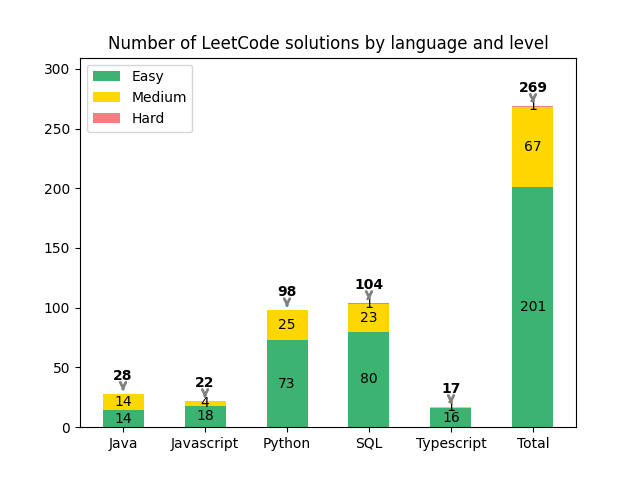
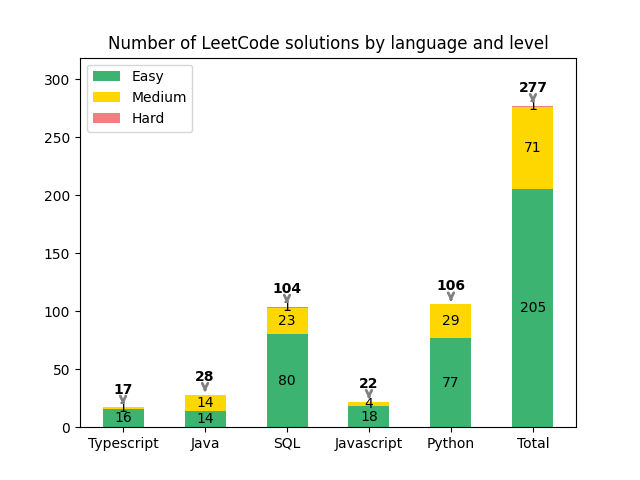
[auto] Update README and move solution files (R.N: 68)
Push commit: 4b45bf251ab9b2204a08df5d678323acbb3b22d8

Files moved: 8

Workflow: Auto-update README and move newly added solution files during PR checks

Triggered on: pull_request

Run Link: https://github.com/e0406370/reetkode/actions/runs/15374584651

diff --git a/README.md b/README.md
@@ -15,6 +15,7 @@ This README is generated using the following custom-built **Python** scripts: [`
 | :--- | :--- | :--- | :--- | :--- |
 |**1**|🟩 Easy|⚙|[Two Sum](https://lcid.cc/1)|<a href="java/lce_p0001_two_sum.java"><img src="icons/java-original.svg" height="25"></a>|
 |**3**|🟨 Medium|⚙|[Longest Substring Without Repeating Characters](https://lcid.cc/3)|<a href="python/lcm_p0003_longest_substring_without_repeating_characters.py"><img src="icons/python-original.svg" height="25"></a>|
+|**11**|🟨 Medium|⚙|[Container With Most Water](https://lcid.cc/11)|<a href="python/lcm_p0011_container_with_most_water.py"><img src="icons/python-original.svg" height="25"></a>|
 |**13**|🟩 Easy|⚙|[Roman To Integer](https://lcid.cc/13)|<a href="python/lce_p0013_roman_to_integer.py"><img src="icons/python-original.svg" height="25"></a>|
 |**17**|🟨 Medium|⚙|[Letter Combinations Of A Phone Number](https://lcid.cc/17)|<a href="java/lcm_p0017_letter_combinations_of_a_phone_number.java"><img src="icons/java-original.svg" height="25"></a>|
 |**28**|🟩 Easy|⚙|[Find The Index Of The First Occurrence In A String](https://lcid.cc/28)|<a href="python/lce_p0028_find_the_index_of_the_first_occurrence_in_a_string.py"><img src="icons/python-original.svg" height="25"></a>|
@@ -50,6 +51,7 @@ This README is generated using the following custom-built **Python** scripts: [`
 |**347**|🟨 Medium|⚙|[Top K Frequent Elements](https://lcid.cc/347)|<a href="java/lcm_p0347_top_k_frequent_elements.java"><img src="icons/java-original.svg" height="25"></a>|
 |**387**|🟩 Easy|⚙|[First Unique Character String](https://lcid.cc/387)|<a href="python/lce_p0387_first_unique_character_string.py"><img src="icons/python-original.svg" height="25"></a>|
 |**389**|🟩 Easy|⚙|[Find The Difference](https://lcid.cc/389)|<a href="python/lce_p0389_find_the_difference.py"><img src="icons/python-original.svg" height="25"></a>|
+|**392**|🟩 Easy|⚙|[Is Subsequence](https://lcid.cc/392)|<a href="python/lce_p0392_is_subsequence.py"><img src="icons/python-original.svg" height="25"></a>|
 |**443**|🟨 Medium|⚙|[String Compression](https://lcid.cc/443)|<a href="python/lcm_p0443_string_compression.py"><img src="icons/python-original.svg" height="25"></a>|
 |**459**|🟩 Easy|⚙|[Repeated Substring Pattern](https://lcid.cc/459)|<a href="python/lce_p0459_repeated_substring_pattern.py"><img src="icons/python-original.svg" height="25"></a>|
 |**507**|🟩 Easy|⚙|[Perfect Number](https://lcid.cc/507)|<a href="python/lce_p0507_perfect_number.py"><img src="icons/python-original.svg" height="25"></a>|
@@ -74,6 +76,7 @@ This README is generated using the following custom-built **Python** scripts: [`
 |**620**|🟩 Easy|🛢|[Not Boring Movies](https://lcid.cc/620)|<a href="sql/lce_p0620_not_boring_movies_postgresql.sql"><img src="icons/postgresql-original.svg" height="25"></a> <a href="sql/lce_p0620_not_boring_movies_sqlserver.sql"><img src="icons/sqlserver-original.svg" height="25"></a>|
 |**626**|🟨 Medium|🛢|[Exchange Seats](https://lcid.cc/626)|<a href="sql/lcm_p0626_exchange_seats_mysql.sql"><img src="icons/mysql-original.svg" height="25"></a>|
 |**627**|🟩 Easy|🛢|[Swap Salary](https://lcid.cc/627)|<a href="sql/lce_p0627_swap_salary_mysql.sql"><img src="icons/mysql-original.svg" height="25"></a> <a href="sql/lce_p0627_swap_salary_postgresql.sql"><img src="icons/postgresql-original.svg" height="25"></a>|
+|**643**|🟩 Easy|⚙|[Maximum Average Subarray I](https://lcid.cc/643)|<a href="python/lce_p0643_maximum_average_subarray_i.py"><img src="icons/python-original.svg" height="25"></a>|
 |**657**|🟩 Easy|⚙|[Robot Return To Origin](https://lcid.cc/657)|<a href="python/lce_p0657_robot_return_to_origin.py"><img src="icons/python-original.svg" height="25"></a>|
 |**682**|🟩 Easy|⚙|[Baseball Game](https://lcid.cc/682)|<a href="java/lce_p0682_baseball_game.java"><img src="icons/java-original.svg" height="25"></a> <a href="python/lce_p0682_baseball_game.py"><img src="icons/python-original.svg" height="25"></a>|
 |**709**|🟩 Easy|⚙|[To Lower Case](https://lcid.cc/709)|<a href="python/lce_p0709_to_lower_case.py"><img src="icons/python-original.svg" height="25"></a>|
@@ -101,6 +104,7 @@ This README is generated using the following custom-built **Python** scripts: [`
 |**1180**|🟩 Easy|⚙|[Count Substrings With Only One Distinct Letter](https://lcid.cc/1180)|<a href="python/lce_p1180_count_substrings_with_only_one_distinct_letter.py"><img src="icons/python-original.svg" height="25"></a>|
 |**1193**|🟨 Medium|🛢|[Monthly Transactions I](https://lcid.cc/1193)|<a href="sql/lcm_p1193_monthly_transactions_i_mysql.sql"><img src="icons/mysql-original.svg" height="25"></a>|
 |**1204**|🟨 Medium|🛢|[Last Person To Fit In The Bus](https://lcid.cc/1204)|<a href="sql/lcm_p1204_last_person_to_fit_in_the_bus_mysql.sql"><img src="icons/mysql-original.svg" height="25"></a>|
+|**1207**|🟩 Easy|⚙|[Unique Number Of Occurrences](https://lcid.cc/1207)|<a href="python/lce_p1207_unique_number_of_occurrences.py"><img src="icons/python-original.svg" height="25"></a>|
 |**1211**|🟩 Easy|🛢|[Queries Quality And Percentage](https://lcid.cc/1211)|<a href="sql/lce_p1211_queries_quality_and_percentage_mysql.sql"><img src="icons/mysql-original.svg" height="25"></a>|
 |**1232**|🟩 Easy|⚙|[Check If It Is A Straight Line](https://lcid.cc/1232)|<a href="python/lce_p1232_check_if_it_is_a_straight_line.py"><img src="icons/python-original.svg" height="25"></a>|
 |**1251**|🟩 Easy|🛢|[Average Selling Price](https://lcid.cc/1251)|<a href="sql/lce_p1251_average_selling_price_mysql.sql"><img src="icons/mysql-original.svg" height="25"></a>|
@@ -115,6 +119,7 @@ This README is generated using the following custom-built **Python** scripts: [`
 |**1407**|🟩 Easy|🛢|[Top Travellers](https://lcid.cc/1407)|<a href="sql/lce_p1407_top_travellers_mysql.sql"><img src="icons/mysql-original.svg" height="25"></a>|
 |**1431**|🟩 Easy|⚙|[Kids With The Greatest Number Of Candies](https://lcid.cc/1431)|<a href="python/lce_p1431_kids_with_the_greatest_number_of_candies.py"><img src="icons/python-original.svg" height="25"></a>|
 |**1455**|🟩 Easy|⚙|[Check If A Word Occurs As A Prefix Of Any Word In A Sentence](https://lcid.cc/1455)|<a href="java/lce_p1455_check_if_a_word_occurs_as_a_prefix_of_any_word_in_a_sentence.java"><img src="icons/java-original.svg" height="25"></a>|
+|**1456**|🟨 Medium|⚙|[Maximum Number Of Vowels In A Substring Of Given Length](https://lcid.cc/1456)|<a href="python/lcm_p1456_maximum_number_of_vowels_in_a_substring_of_given_length.py"><img src="icons/python-original.svg" height="25"></a>|
 |**1484**|🟩 Easy|🛢|[Group Sold Products By The Date](https://lcid.cc/1484)|<a href="sql/lce_p1484_group_sold_products_by_the_date_mysql.sql"><img src="icons/mysql-original.svg" height="25"></a>|
 |**1491**|🟩 Easy|⚙|[Average Salary Excluding The Minimum And Maximum Salary](https://lcid.cc/1491)|<a href="python/lce_p1491_average_salary_excluding_the_minimum_and_maximum_salary.py"><img src="icons/python-original.svg" height="25"></a>|
 |**1502**|🟩 Easy|⚙|[Can Make Arithmetic Progression From Sequence](https://lcid.cc/1502)|<a href="python/lce_p1502_can_make_arithmetic_progression_from_sequence.py"><img src="icons/python-original.svg" height="25"></a>|
@@ -132,6 +137,7 @@ This README is generated using the following custom-built **Python** scripts: [`
 |**1661**|🟩 Easy|🛢|[Average Time Of Process Per Machine](https://lcid.cc/1661)|<a href="sql/lce_p1661_average_time_of_process_per_machine_mysql.sql"><img src="icons/mysql-original.svg" height="25"></a>|
 |**1667**|🟩 Easy|🛢|[Fix Names In A Table](https://lcid.cc/1667)|<a href="sql/lce_p1667_fix_names_in_a_table_mysql.sql"><img src="icons/mysql-original.svg" height="25"></a>|
 |**1672**|🟩 Easy|⚙|[Richest Customer Wealth](https://lcid.cc/1672)|<a href="python/lce_p1672_richest_customer_wealth.py"><img src="icons/python-original.svg" height="25"></a>|
+|**1679**|🟨 Medium|⚙|[Max Number Of K-sum Pairs](https://lcid.cc/1679)|<a href="python/lcm_p1679_max_number_of_k-sum_pairs.py"><img src="icons/python-original.svg" height="25"></a>|
 |**1683**|🟩 Easy|🛢|[Invalid Tweets](https://lcid.cc/1683)|<a href="sql/lce_p1683_invalid_tweets_sqlserver.sql"><img src="icons/sqlserver-original.svg" height="25"></a>|
 |**1693**|🟩 Easy|🛢|[Daily Leads And Partners](https://lcid.cc/1693)|<a href="sql/lce_p1693_daily_leads_and_partners_mysql.sql"><img src="icons/mysql-original.svg" height="25"></a>|
 |**1700**|🟩 Easy|⚙|[Number Of Students Unable To Eat Lunch](https://lcid.cc/1700)|<a href="python/lce_p1700_number_of_students_unable_to_eat_lunch.py"><img src="icons/python-original.svg" height="25"></a>|
@@ -169,9 +175,11 @@ This README is generated using the following custom-built **Python** scripts: [`
 |**2109**|🟨 Medium|⚙|[Adding Spaces To A String](https://lcid.cc/2109)|<a href="java/lcm_p2109_adding_spaces_to_a_string.java"><img src="icons/java-original.svg" height="25"></a>|
 |**2124**|🟩 Easy|⚙|[Check If All As Appears Before All Bs](https://lcid.cc/2124)|<a href="python/lce_p2124_check_if_all_as_appears_before_all_bs.py"><img src="icons/python-original.svg" height="25"></a>|
 |**2125**|🟨 Medium|⚙|[Number Of Laser Beams In A Bank](https://lcid.cc/2125)|<a href="python/lcm_p2125_number_of_laser_beams_in_a_bank.py"><img src="icons/python-original.svg" height="25"></a>|
+|**2215**|🟩 Easy|⚙|[Find The Difference Of Two Arrays](https://lcid.cc/2215)|<a href="python/lce_p2215_find_the_difference_of_two_arrays.py"><img src="icons/python-original.svg" height="25"></a>|
 |**2283**|🟩 Easy|⚙|[Check If Number Has Equal Digit Count And Digit Value](https://lcid.cc/2283)|<a href="python/lce_p2283_check_if_number_has_equal_digit_count_and_digit_value.py"><img src="icons/python-original.svg" height="25"></a>|
 |**2342**|🟨 Medium|⚙|[Max Sum Of A Pair With Equal Sum Of Digits](https://lcid.cc/2342)|<a href="python/lcm_p2342_max_sum_of_a_pair_with_equal_sum_of_digits.py"><img src="icons/python-original.svg" height="25"></a>|
 |**2349**|🟨 Medium|⚙|[Design A Number Container System](https://lcid.cc/2349)|<a href="python/lcm_p2349_design_a_number_container_system.py"><img src="icons/python-original.svg" height="25"></a>|
+|**2352**|🟨 Medium|⚙|[Equal Row And Column Pairs](https://lcid.cc/2352)|<a href="python/lcm_p2352_equal_row_and_column_pairs.py"><img src="icons/python-original.svg" height="25"></a>|
 |**2356**|🟩 Easy|🛢|[Number Of Unique Subjects Taught By Each Teacher](https://lcid.cc/2356)|<a href="sql/lce_p2356_number_of_unique_subjects_taught_by_each_teacher_mysql.sql"><img src="icons/mysql-original.svg" height="25"></a>|
 |**2364**|🟨 Medium|⚙|[Count Number Of Bad Pairs](https://lcid.cc/2364)|<a href="python/lcm_p2364_count_number_of_bad_pairs.py"><img src="icons/python-original.svg" height="25"></a>|
 |**2391**|🟨 Medium|⚙|[Minimum Amount Of Time To Collect Garbage](https://lcid.cc/2391)|<a href="python/lcm_p2391_minimum_amount_of_time_to_collect_garbage.py"><img src="icons/python-original.svg" height="25"></a>|
